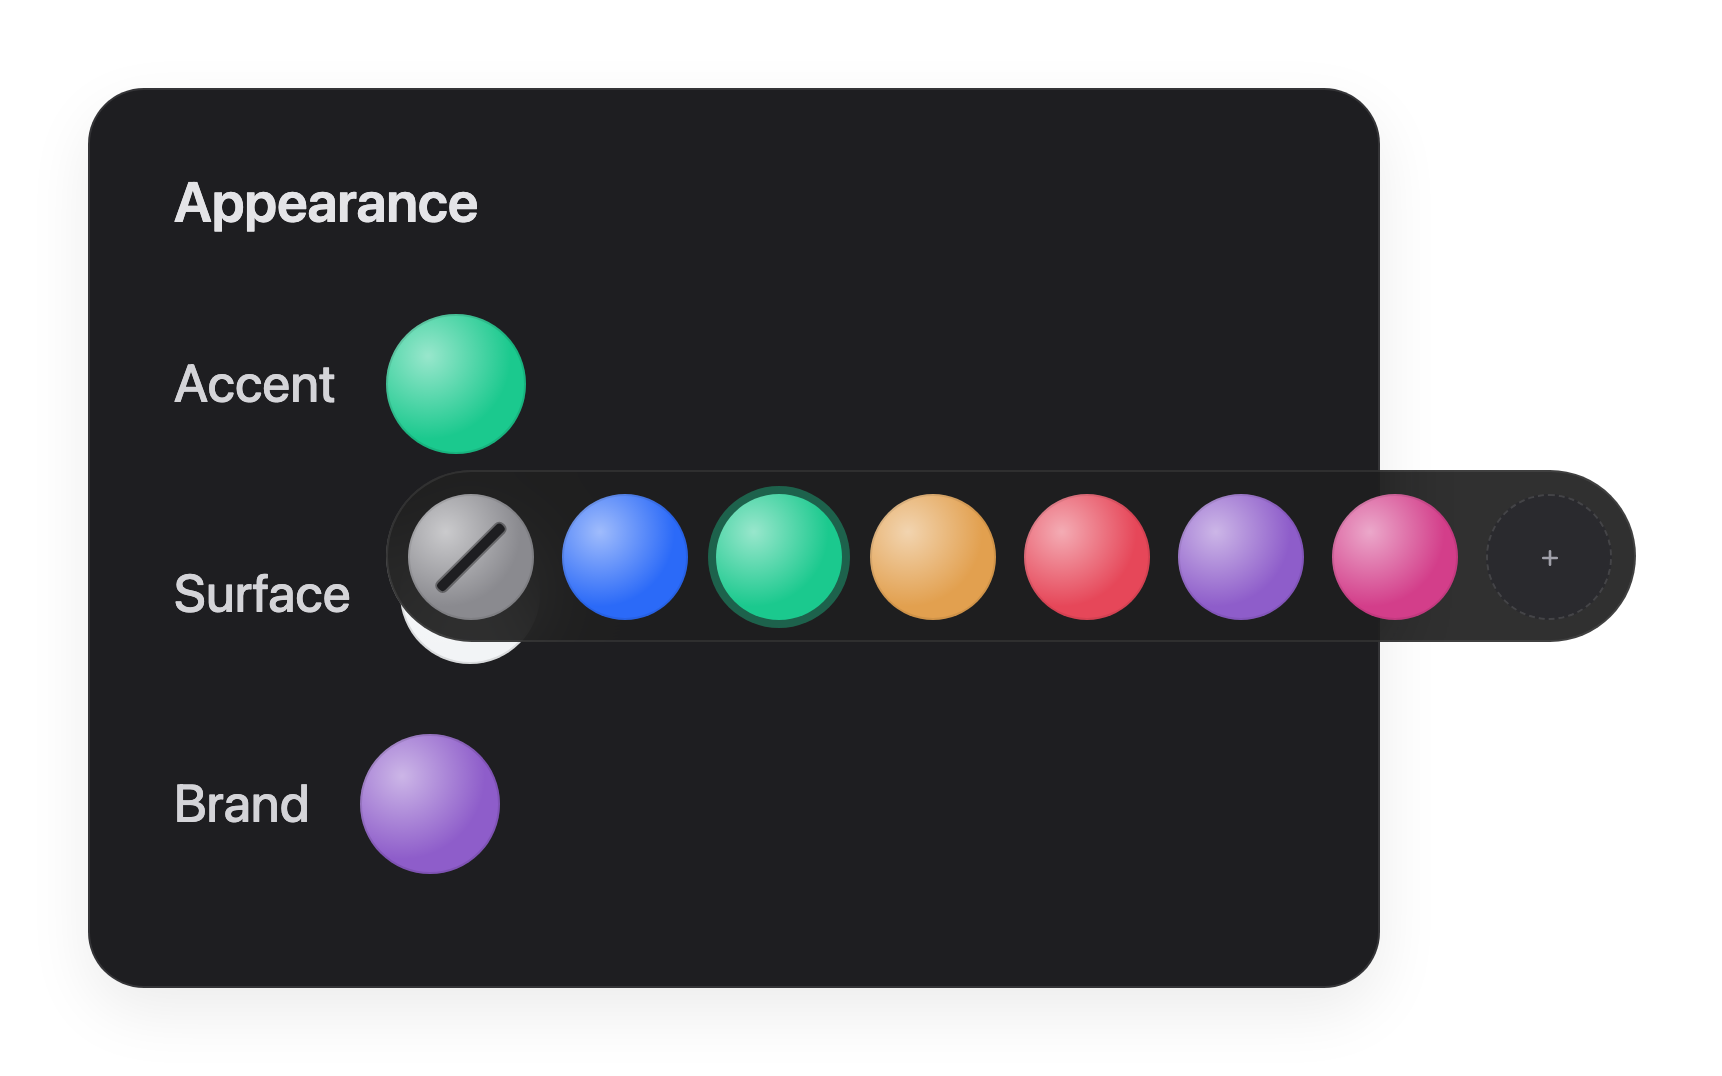
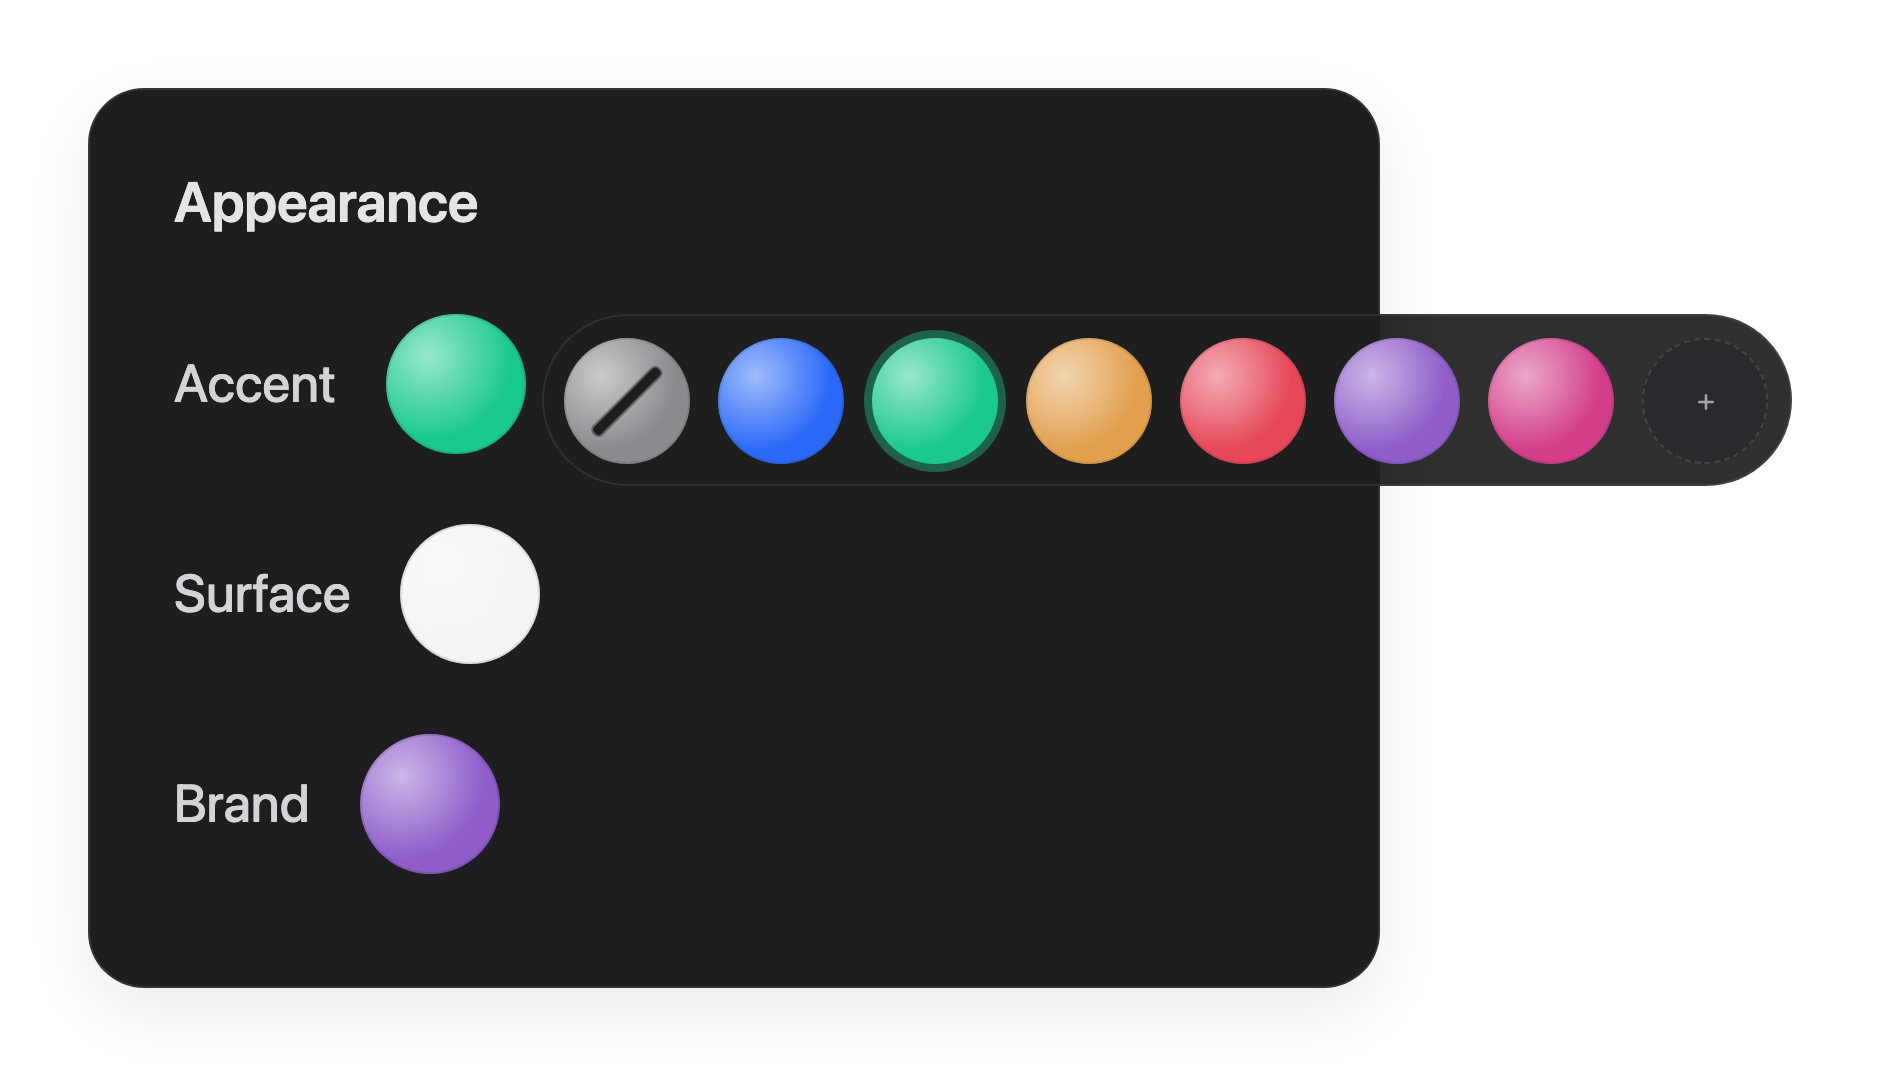
feat(docs): tray opens beside its row, and gradient hero candidates
The tray was placed bottom-start, which dropped it onto the row below — so it
appeared to belong to the Surface control while actually being the Accent
one's. Opening to the right keeps it attached to the trigger it came from and
covers nothing.

Five candidates on the supplied gradient, all in the duo layout: pale, both
schemes on the dark-to-light sweep, inverted, a frosted plate, and dark-on-dark.
The ground is its own layer so it can be positioned and flipped independently
of the composition standing on it.

The gradient is vendored at 1800px rather than referenced from outside the
repo, so the script still runs on a machine that does not have the original.

diff --git a/playground/src/Demo.vue b/playground/src/Demo.vue
@@ -22,10 +22,14 @@ const brand = ref<string | null>('#8e5dca')
 
       <div class="row">
         <span class="row__label">Accent</span>
+        <!-- Opens beside its own row rather than below it. Bottom placement
+             drops the tray onto the next row down, where it reads as belonging
+             to that control instead of this one. -->
         <ColorPicker
           v-model="accent"
           range="full"
           clearable
+          placement="right-start"
           default-color="#8a8a8f"
           recent-key="demo:accent"
         />
